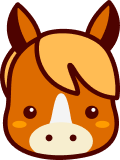
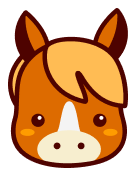
[수정] brownHorse 이미지파일 업데이트
- 말  얼굴 하이라이트 표현 시 얼굴 밀림현상 해결

diff --git a/front/src/spaceMain/ImageInfos.ts b/front/src/spaceMain/ImageInfos.ts
@@ -41,26 +41,26 @@ const animalMetaData = [
       {
         src: "./assets/spaceMain/animal/brownHorseBody.png",
         type: ImageInfoEnum.BODY,
-        unionPixelWidth: 120,
-        unionPixelHeight: 200,
+        unionPixelWidth: 136,
+        unionPixelHeight: 208,
       },
       {
         src: "./assets/spaceMain/animal/brownHorseFaceMute.png",
         type: ImageInfoEnum.FACE_MUTE,
-        unionPixelWidth: 120,
-        unionPixelHeight: 200,
+        unionPixelWidth: 136,
+        unionPixelHeight: 208,
       },
       {
         src: "./assets/spaceMain/animal/brownHorseFaceSpeak.png",
         type: ImageInfoEnum.FACE_SPEAK,
-        unionPixelWidth: 120,
-        unionPixelHeight: 200,
+        unionPixelWidth: 136,
+        unionPixelHeight: 208,
       },
       {
         src: "./assets/spaceMain/animal/brownHorseFaceSpeakMouse.png",
         type: ImageInfoEnum.FACE_SPEAK_MOUSE,
-        unionPixelWidth: 120,
-        unionPixelHeight: 200,
+        unionPixelWidth: 136,
+        unionPixelHeight: 208,
       },
     ],
   },
